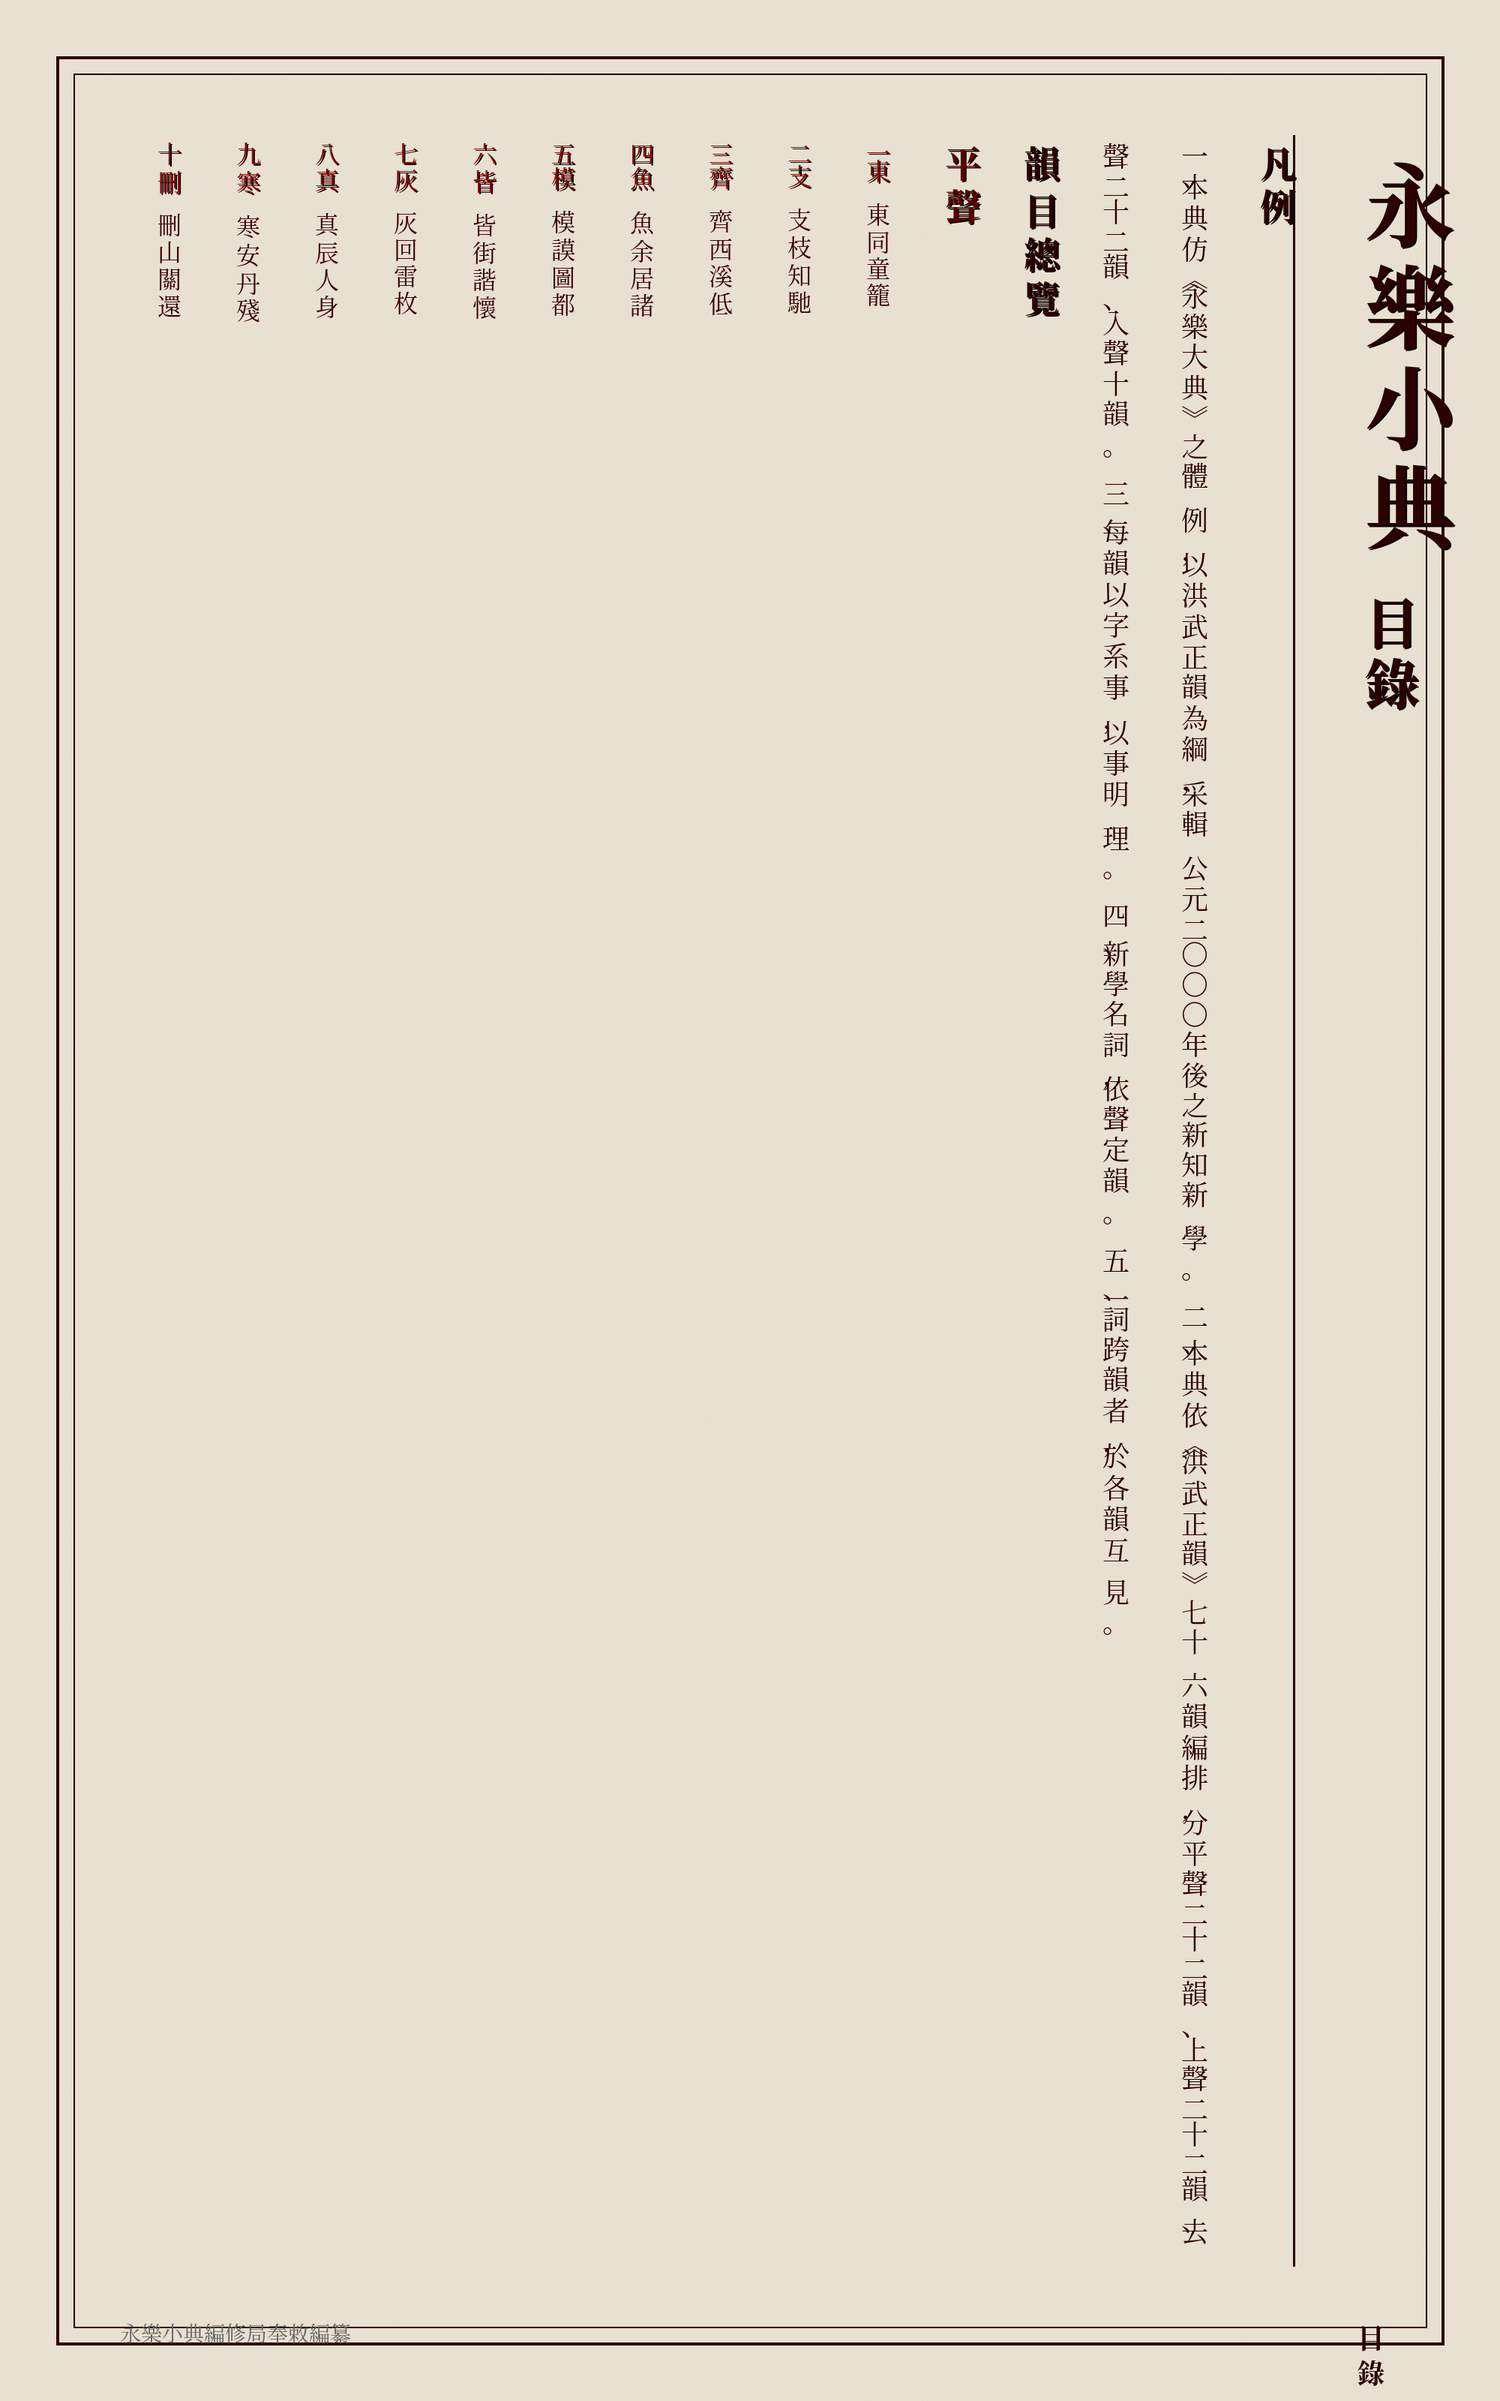
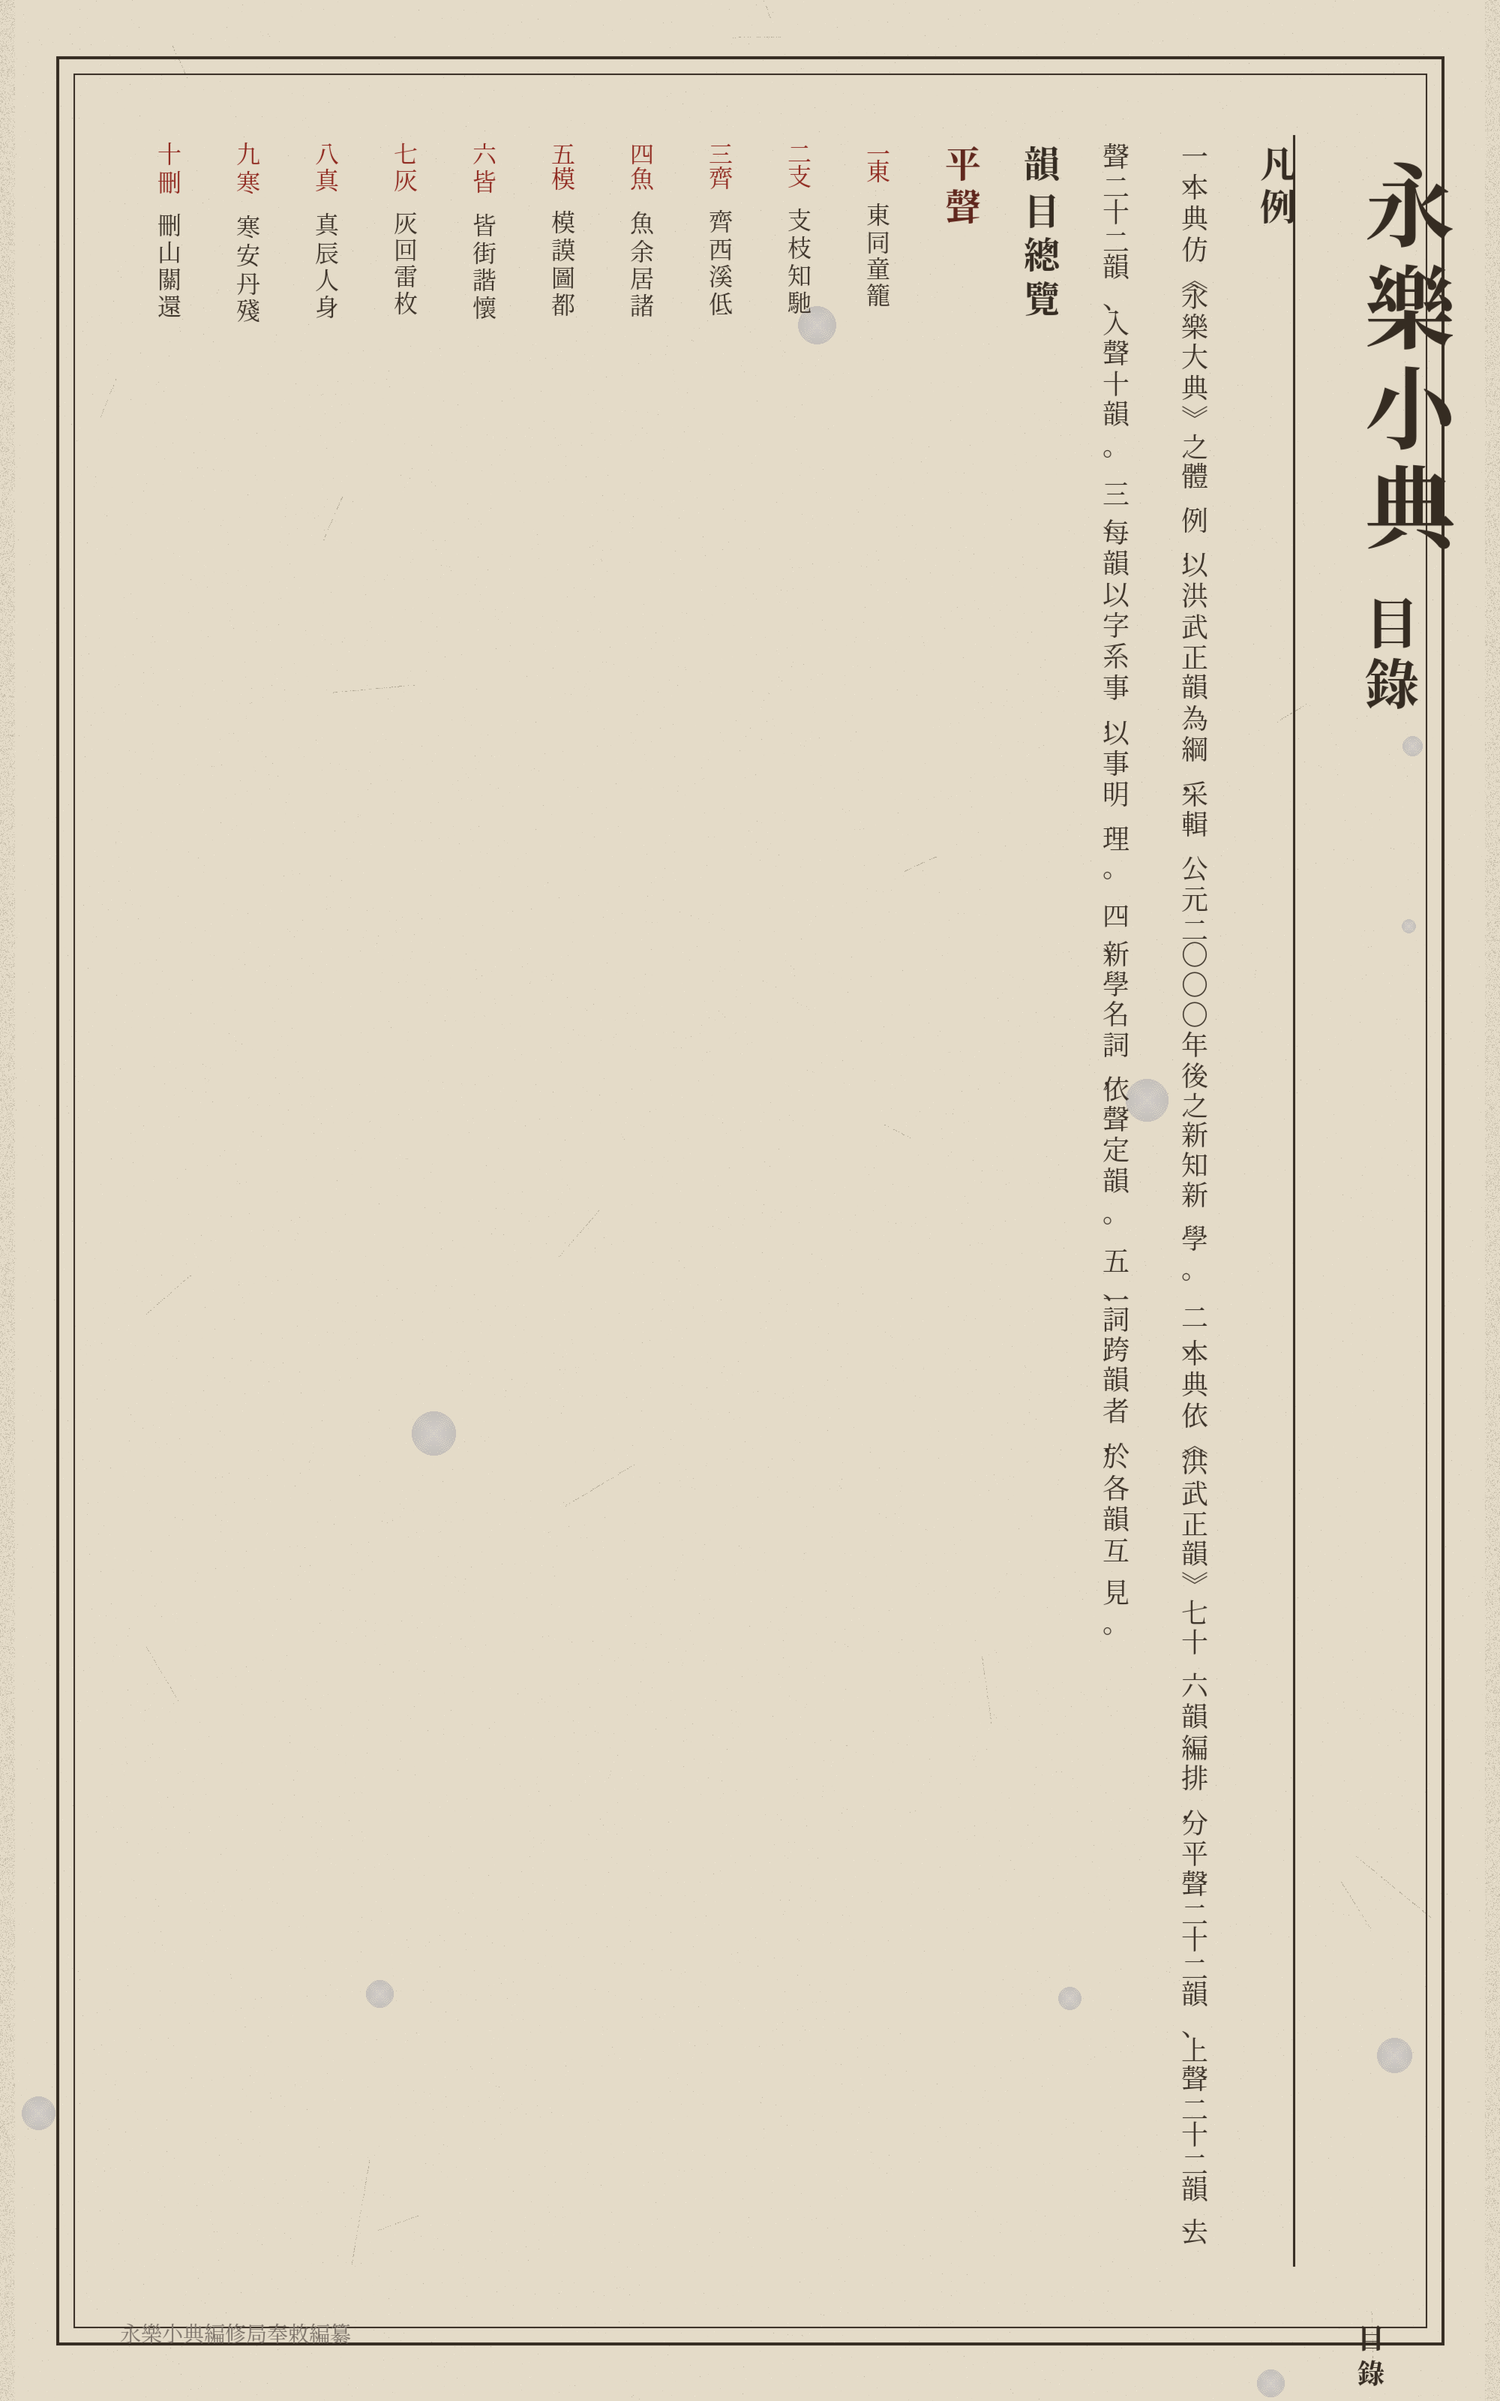
更新：古籍影印本風格，做舊紙張效果，淡化水漬

diff --git a/scripts/create_directory_guji.py b/scripts/create_directory_guji.py
@@ -1,0 +1,300 @@
+#!/usr/bin/env python3
+"""
+永樂小典目錄 - 古籍影印本
+栅格化文字 + 毛筆字效果 + 做舊紙張
+"""
+
+from PIL import Image, ImageDraw, ImageFont, ImageFilter, ImageEnhance
+import sys
+import os
+import random
+import math
+
+def get_font(size, style='regular'):
+    """獲取中文字體"""
+    if style == 'title':
+        font_paths = ['/usr/share/fonts/google-noto-cjk/NotoSerifCJK-Bold.ttc']
+    else:
+        font_paths = ['/usr/share/fonts/google-noto-cjk/NotoSerifCJK-Regular.ttc']
+    
+    for font_path in font_paths:
+        if os.path.exists(font_path):
+            try:
+                return ImageFont.truetype(font_path, size)
+            except:
+                continue
+    return ImageFont.load_default()
+
+def create_ink_effect(draw, x, y, char, font, fill, intensity=0.8):
+    """創建墨跡效果 - 模擬毛筆字"""
+    # 直接繪製文字，但使用RGB模式
+    if isinstance(fill, tuple):
+        color = fill
+    else:
+        color = (40, 30, 20)  # 深褐色墨
+    
+    # 繪製主文字
+    draw.text((x, y), char, font=font, fill=color)
+    
+    # 添加輕微模糊模擬墨跡暈染
+    # 這裡簡化處理，直接繪製即可
+
+def create_old_paper_texture(width, height):
+    """創建做舊紙張紋理"""
+    img = Image.new('RGB', (width, height), color='#E5DCC8')
+    draw = ImageDraw.Draw(img)
+    
+    # 基礎紙張顏色變化 - 更明顯的斑駁
+    for _ in range(12000):
+        x = random.randint(0, width-1)
+        y = random.randint(0, height-1)
+        # 隨機顏色變化 - 模擬舊紙的斑駁
+        base_r, base_g, base_b = 225, 215, 195
+        offset = random.randint(-40, 25)
+        r = max(170, min(250, base_r + offset))
+        g = max(160, min(240, base_g + offset))
+        b = max(140, min(225, base_b + offset))
+        draw.point((x, y), fill=(r, g, b))
+    
+    # 添加輕微水漬/污漬效果（非常淡）
+    for _ in range(10):
+        cx = random.randint(0, width)
+        cy = random.randint(0, height)
+        radius = random.randint(10, 30)
+        for r in range(radius):
+            fade = r / radius
+            gray = int(210 - fade * 15)
+            draw.ellipse([cx-r, cy-r, cx+r, cy+r], 
+                        outline=(gray, gray-5, gray-10), width=1)
+    
+    # 添加褶皺/裂痕效果
+    for _ in range(20):
+        x1 = random.randint(0, width)
+        y1 = random.randint(0, height)
+        length = random.randint(30, 150)
+        angle = random.random() * math.pi * 2
+        
+        # 繪製細微裂痕
+        for i in range(length):
+            px = int(x1 + i * math.cos(angle))
+            py = int(y1 + i * math.sin(angle))
+            if 0 <= px < width and 0 <= py < height:
+                if random.random() > 0.6:
+                    draw.point((px, py), fill=(170, 160, 140))
+    
+    # 邊緣磨損效果
+    for y in range(height):
+        for x in range(min(20, width)):
+            if random.random() > 0.8:
+                draw.point((x, y), fill=(200, 190, 170))
+        for x in range(max(0, width-20), width):
+            if random.random() > 0.8:
+                draw.point((x, y), fill=(200, 190, 170))
+    
+    return img
+
+def create_vertical_directory(output_file):
+    """創建古籍影印本目錄"""
+    
+    # 豎頁開本
+    width = 2000
+    height = 3200
+    
+    # 創建做舊紙張
+    img = create_old_paper_texture(width, height)
+    draw = ImageDraw.Draw(img)
+    
+    # 加載字體
+    title_font = get_font(120, 'title')
+    subtitle_font = get_font(72, 'title')
+    section_font = get_font(48, 'title')
+    body_font = get_font(36, 'regular')
+    small_font = get_font(32, 'regular')
+    footer_font = get_font(28, 'regular')
+    
+    # 邊距
+    margin_x = 120
+    margin_y = 120
+    col_width = 60
+    col_gap = 45
+    
+    border_color = (45, 35, 25)  # 深褐色邊框
+    
+    # 繪製邊框 - 雙線
+    draw.rectangle(
+        [(margin_x-45, margin_y-45), (width-margin_x+45, height-margin_y+45)],
+        outline=border_color, width=4
+    )
+    draw.rectangle(
+        [(margin_x-22, margin_y-22), (width-margin_x+22, height-margin_y+22)],
+        outline=border_color, width=2
+    )
+    
+    # 書根標籤
+    label_font = get_font(36, 'title')
+    draw.text((width - margin_x - 70, height - margin_y + 8), "目", 
+              font=label_font, fill=border_color)
+    draw.text((width - margin_x - 70, height - margin_y + 55), "錄", 
+              font=label_font, fill=border_color)
+    
+    # 從最右開始
+    current_x = width - margin_x - col_width
+    current_y = margin_y + 60
+    
+    # 大標題 - 使用墨跡效果
+    title = "永樂小典"
+    y = current_y
+    for char in title:
+        create_ink_effect(draw, current_x, y, char, title_font, border_color)
+        bbox = title_font.getbbox(char)
+        y += (bbox[3] - bbox[1]) + 20 if bbox else 140
+    
+    # 副標題
+    subtitle = "目錄"
+    y += 50
+    for char in subtitle:
+        create_ink_effect(draw, current_x, y, char, subtitle_font, border_color)
+        bbox = subtitle_font.getbbox(char)
+        y += (bbox[3] - bbox[1]) + 12 if bbox else 85
+    
+    # 分隔線
+    line_x = current_x - col_width - 35
+    draw.line([(line_x, margin_y + 60), (line_x, height - margin_y - 60)], 
+              fill=border_color, width=3)
+    
+    # 凡例
+    current_x = line_x - col_gap
+    y = current_y
+    
+    fanli_title = "凡例"
+    for char in fanli_title:
+        create_ink_effect(draw, current_x, y, char, section_font, border_color)
+        bbox = section_font.getbbox(char)
+        y += (bbox[3] - bbox[1]) + 12 if bbox else 60
+    
+    # 凡例內容
+    current_x -= col_width + col_gap
+    y = current_y
+    
+    fanli_lines = [
+        "一、本典仿︽永樂大典︾之體",
+        "例，以洪武正韻為綱，采輯",
+        "公元二〇〇〇年後之新知新",
+        "學。",
+        "",
+        "二、本典依︽洪武正韻︾七十",
+        "六韻編排，分平聲二十二韻、",
+        "上聲二十二韻、去聲二十二韻、",
+        "入聲十韻。",
+        "",
+        "三、每韻以字系事，以事明",
+        "理。",
+        "",
+        "四、新學名詞，依聲定韻。",
+        "",
+        "五、一詞跨韻者，於各韻互",
+        "見。",
+    ]
+    
+    for line in fanli_lines:
+        if line == "":
+            y += 30
+            continue
+        for char in line:
+            # 正文使用稍淡的墨色
+            create_ink_effect(draw, current_x, y, char, body_font, (50, 40, 30), 0.7)
+            bbox = body_font.getbbox(char)
+            y += (bbox[3] - bbox[1]) + 6 if bbox else 42
+            if y > height - margin_y - 100:
+                current_x -= col_width + col_gap
+                y = current_y
+                if current_x < margin_x + col_width:
+                    break
+        y += 18
+        if current_x < margin_x + col_width:
+            break
+    
+    # 韻目總覽
+    if current_x > margin_x + col_width * 2:
+        current_x -= col_width + col_gap
+        y = current_y
+        yunmu_title = "韻目總覽"
+        for char in yunmu_title:
+            create_ink_effect(draw, current_x, y, char, section_font, border_color)
+            bbox = section_font.getbbox(char)
+            y += (bbox[3] - bbox[1]) + 12 if bbox else 60
+    
+    # 平聲
+    current_x -= col_width + col_gap
+    y = current_y
+    ping_title = "平聲"
+    for char in ping_title:
+        create_ink_effect(draw, current_x, y, char, section_font, (90, 30, 20))
+        bbox = section_font.getbbox(char)
+        y += (bbox[3] - bbox[1]) + 10 if bbox else 55
+    
+    # 韻部列表
+    yunmu_data = [
+        ("一東", "東同童籠"),
+        ("二支", "支枝知馳"),
+        ("三齊", "齊西溪低"),
+        ("四魚", "魚余居諸"),
+        ("五模", "模謨圖都"),
+        ("六皆", "皆街諧懷"),
+        ("七灰", "灰回雷枚"),
+        ("八真", "真辰人身"),
+        ("九寒", "寒安丹殘"),
+        ("十刪", "刪山關還"),
+        ("十一先", "先前千煙"),
+        ("十二蕭", "蕭消朝樵"),
+        ("十三爻", "爻交郊包"),
+        ("十四豪", "豪高勞毛"),
+        ("十五歌", "歌柯波多"),
+        ("十六麻", "麻華沙車"),
+        ("十七陽", "陽章昌堂"),
+        ("十八庚", "庚更生橫"),
+        ("十九青", "青清星靈"),
+        ("二十尤", "尤由游休"),
+        ("廿一侵", "侵音心金"),
+        ("廿二覃", "覃談南甘"),
+    ]
+    
+    for yun_num, yun_chars in yunmu_data:
+        current_x -= col_width + col_gap
+        if current_x < margin_x + col_width:
+            break
+            
+        y = current_y
+        
+        # 韻部數字（硃紅色）
+        for char in yun_num:
+            create_ink_effect(draw, current_x, y, char, small_font, (140, 30, 20))
+            bbox = small_font.getbbox(char)
+            y += (bbox[3] - bbox[1]) + 6 if bbox else 38
+        
+        y += 20
+        
+        # 韻部代表字
+        for char in yun_chars:
+            create_ink_effect(draw, current_x, y, char, small_font, (50, 40, 30), 0.75)
+            bbox = small_font.getbbox(char)
+            y += (bbox[3] - bbox[1]) + 5 if bbox else 36
+    
+    # 頁腳
+    footer = "永樂小典編修局奉敕編纂"
+    footer_x = margin_x + 40
+    footer_y = height - margin_y + 8
+    draw.text((footer_x, footer_y), footer, font=footer_font, fill=(120, 110, 100))
+    
+    # 最後添加整體模糊和對比度調整，模擬古籍掃描效果
+    img = img.filter(ImageFilter.GaussianBlur(radius=0.3))
+    enhancer = ImageEnhance.Contrast(img)
+    img = enhancer.enhance(0.95)
+    
+    # 保存
+    img.save(output_file, 'PNG', quality=95)
+    print(f"古籍影印本目錄已生成: {output_file}")
+
+if __name__ == '__main__':
+    output_file = sys.argv[1] if len(sys.argv) > 1 else '目錄.png'
+    create_vertical_directory(output_file)
